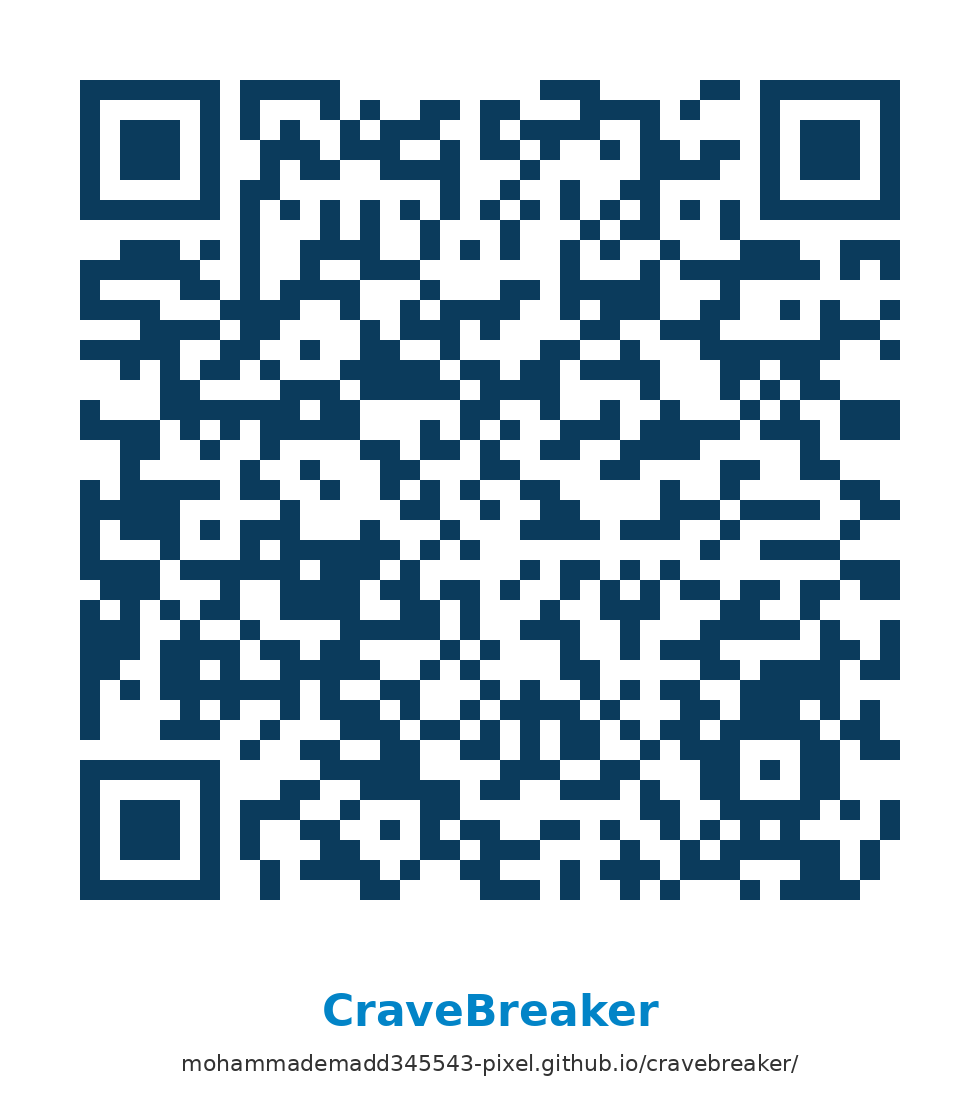
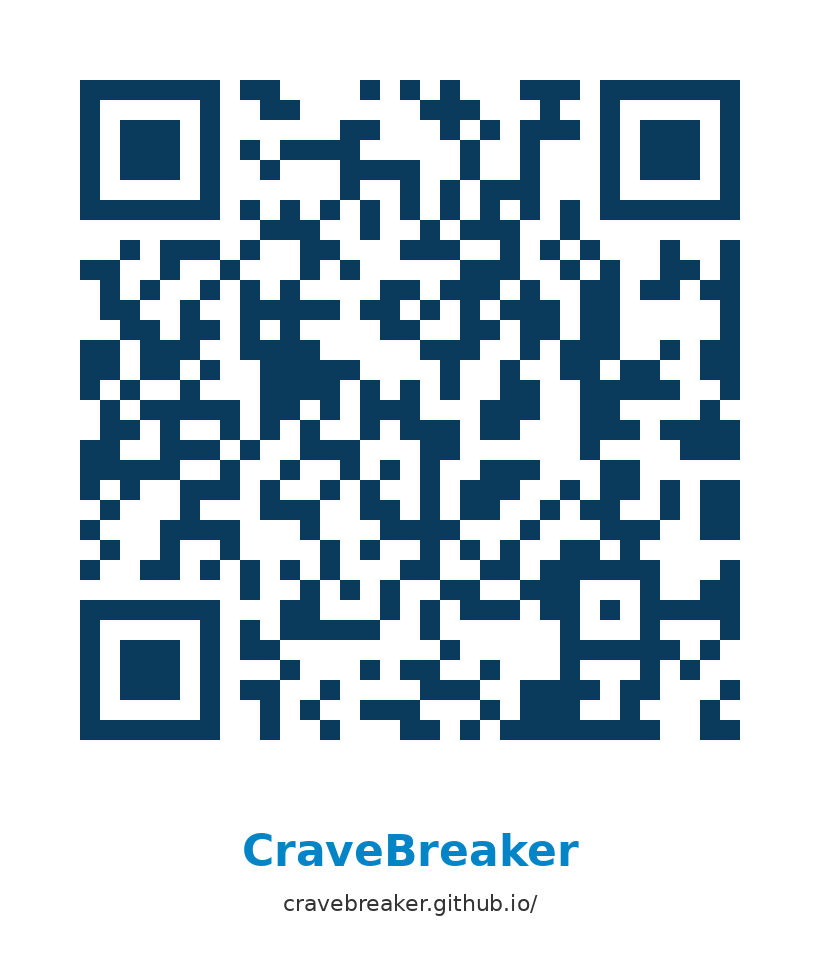
Point QR and README to cravebreaker.github.io
Claude-Session: https://claude.ai/code/session_01VmCNngx8E8Ev5CTcDyPqNP

diff --git a/README.md b/README.md
@@ -1,5 +1,5 @@
 # CraveBreaker — خذ نفس، واكسر الرغبة
 
-🔗 **افتح التطبيق:** https://mohammademadd345543-pixel.github.io/cravebreaker/
+🔗 **افتح التطبيق:** https://cravebreaker.github.io/
 
 ![QR](cravebreaker-qr.png)
